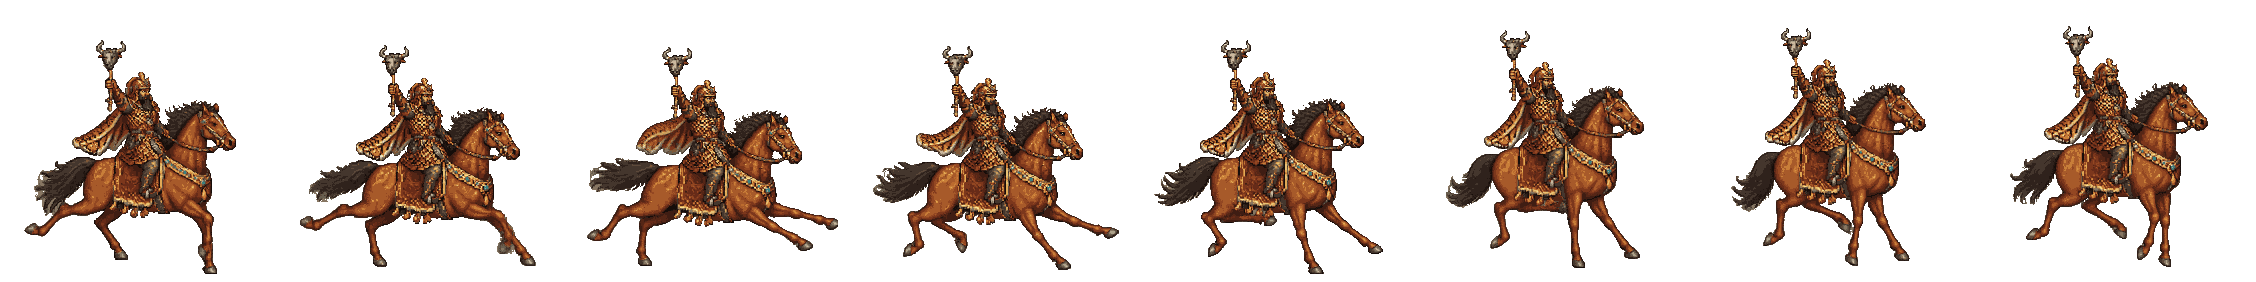
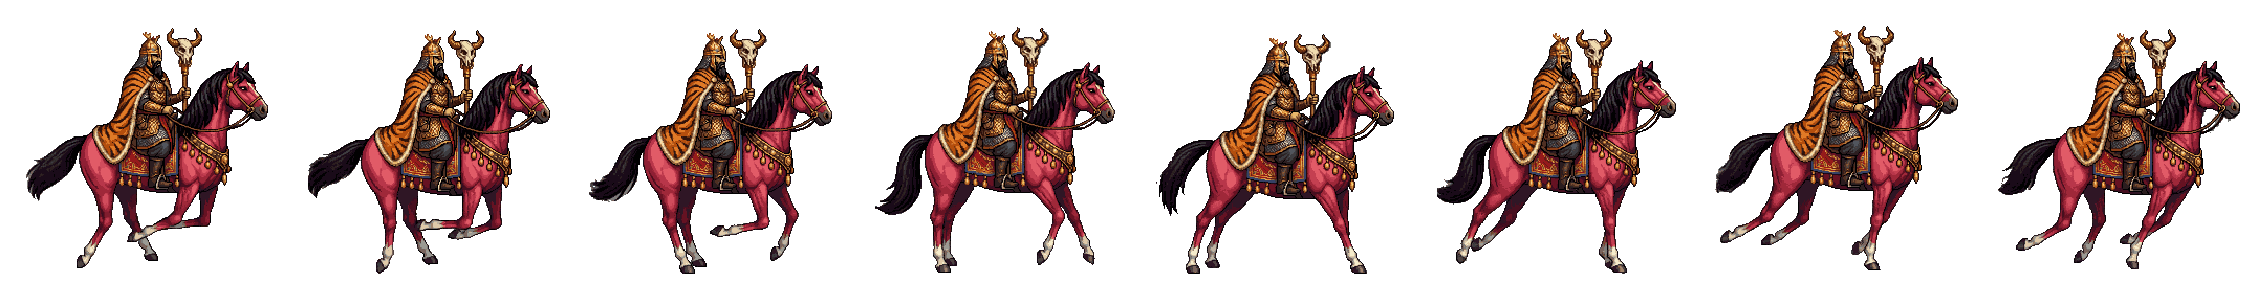
Shahnameh: speaker portraits, a true gallop, and a proper ending
- Portraits of every speaker (and the storyteller) beside the spoken
  subtitles; the written note steps aside while someone speaks.
- Rostam on Rakhsh redrawn in full detail with a real gallop (legs
  folding and striking in turn, no splayed rocking-horse frames), plus a
  new mounted strike and rear.
- Rostam sinks to his knees when he falls, and raises his mace to the
  sky when he takes the Simurgh's feather.
- The ending: Rostam reaches out and lets a drop of the White Div's
  heart-blood fall on the king's eyes; the chains burst, light pours
  down, Kay Kavus rises, and Rostam raises his mace.

diff --git a/fun/shahnameh/game.js b/fun/shahnameh/game.js
@@ -29,7 +29,7 @@ const ART = {
   'jackal-run': 'jackal-run.png', 'div-hop': 'div-hop.png',
   // Khan II
   'ride-gallop': 'k3/ride-gallop.png', 'ride-strike': 'k3/ride-strike.png', 'ride-rear': 'k3/ride-rear.png',
-  'queen-walk': 'k2/queen-walk.png', 'queen-sting': 'k2/queen-sting.png', 'queen-spit': 'k2/queen-spit.png', 'queen-die': 'k2/queen-die.png', 'scorpion-crawl': 'k2/scorpion-crawl.png', 'scorpion-sting': 'k2/scorpion-sting.png', 'vulture-fly': 'k2/vulture-fly.png', 'ram-walk': 'k2/ram-walk.png', 'rostam-drink': 'rostam-drink.png',
+  'queen-walk': 'k2/queen-walk.png', 'queen-sting': 'k2/queen-sting.png', 'queen-spit': 'k2/queen-spit.png', 'queen-die': 'k2/queen-die.png', 'scorpion-crawl': 'k2/scorpion-crawl.png', 'scorpion-sting': 'k2/scorpion-sting.png', 'vulture-fly': 'k2/vulture-fly.png', 'ram-walk': 'k2/ram-walk.png', 'rostam-drink': 'rostam-drink.png', 'rostam-fall': 'rostam-fall.png', 'rostam-victory': 'rostam-victory.png', 'rostam-anoint': 'rostam-anoint.png',
   // Khan III
   'dragon-move': 'k3/dragon-move.png', 'dragon-fire': 'k3/dragon-fire.png', 'dragon-die': 'k3/dragon-die.png', 'rakhsh-gallop': 'k3/rakhsh-gallop.png', 'rakhsh-rear': 'k3/rakhsh-rear.png', 'bat-fly': 'k3/bat-fly.png',
   // Khan IV
@@ -43,7 +43,7 @@ const ART = {
   'whitediv-walk': 'k7/whitediv-walk.png', 'whitediv-smash': 'k7/whitediv-smash.png', 'whitediv-throw': 'k7/whitediv-throw.png', 'whitediv-die': 'k7/whitediv-die.png', 'kavus-sight': 'k7/kavus-sight.png'
 };
 const FPS = { 'queen-walk': 10, 'queen-sting': 14, 'queen-spit': 12, 'queen-die': 7, 'rostam-dodge': 22, 'rostam-heavy': 14, 'simurgh-fly': 9, 'lion-die': 6, 'dragon-die': 6, 'hag-die': 6, 'rostam-idle': 5, 'rostam-run': 14, 'rostam-jump': 6, 'rostam-attack': 24, 'rostam-hurt': 10, 'lion-walk': 9, 'lion-run': 14, 'lion-roar': 6, 'jackal-run': 12, 'div-hop': 8, 'coin-spin': 8, 'fire-burn': 10,
-  'scorpion-crawl': 10, 'vulture-fly': 10, 'ram-walk': 8, 'rostam-drink': 6, 'ride-gallop': 12, 'ride-strike': 18, 'ride-rear': 11,
+  'scorpion-crawl': 10, 'vulture-fly': 10, 'ram-walk': 8, 'rostam-drink': 6, 'rostam-fall': 7, 'rostam-victory': 8, 'rostam-anoint': 6, 'ride-gallop': 12, 'ride-strike': 18, 'ride-rear': 11,
   'dragon-move': 7, 'dragon-fire': 9, 'rakhsh-gallop': 12, 'rakhsh-rear': 9, 'bat-fly': 14,
   'serpent': 8, 'hag-cast': 10, 'beauty-idle': 4,
   'spearman-walk': 10, 'spearman-thrust': 12, 'olad-walk': 10, 'olad-slash': 14, 'olad-kneel': 8,
@@ -53,7 +53,7 @@ const FPS = { 'queen-walk': 10, 'queen-sting': 14, 'queen-spit': 12, 'queen-die'
 const SIZE = { queen: 150, rider: 124, rostam: 112, lion: 148, jackal: 108, div: 108, scorpion: 86, vulture: 92, ram: 86, dragon: 136, rakhsh: 104, bat: 108, serpent: 92, hag: 108, beauty: 108, spearman: 140, olad: 112, divwarrior: 100, arzhang: 136, whitediv: 136, firediv: 104, ghul: 100 };
 const BODY = { queen: [0.62, 0.42], rider: [0.3, 0.5], rostam: [0.143, 0.393], lion: [0.5, 0.36], jackal: [0.3, 0.22], div: [0.22, 0.34], scorpion: [0.4, 0.22], vulture: [0.33, 0.2], ram: [0.4, 0.4],
   dragon: [0.46, 0.42], rakhsh: [0.5, 0.5], bat: [0.32, 0.24], serpent: [0.31, 0.31], hag: [0.27, 0.42], beauty: [0.2, 0.47], spearman: [0.115, 0.386], olad: [0.17, 0.49], divwarrior: [0.31, 0.64], arzhang: [0.3, 0.7], whitediv: [0.4, 0.58], firediv: [0.2, 0.6], ghul: [0.5, 0.36] };
-const V = 76;
+const V = 78;
 const ZOOM = 2;                                                   // canvas pixels per world pixel   // bump to bust caches when assets change
 
 // PixelLab VFX strips in ./assets/fx: frame size, frame count, fps, and the effect's origin as a fraction of the frame
@@ -1270,7 +1270,7 @@ class Play extends Phaser.Scene {
     makeTextures(this);
     for (const k of Object.keys(FPS)) {
       const t = this.textures.get(k), n = t.frameTotal - 1;
-      if (!this.anims.exists(k)) this.anims.create({ key: k, frames: this.anims.generateFrameNumbers(k, { start: 0, end: Math.max(0, n - 1) }), frameRate: FPS[k], repeat: /attack|hurt|roar|jump|thrust|slash|kneel|smash|throw|fire|rear|sight|strike|sting|die|leap|heavy|dodge/.test(k) ? 0 : -1 });
+      if (!this.anims.exists(k)) this.anims.create({ key: k, frames: this.anims.generateFrameNumbers(k, { start: 0, end: Math.max(0, n - 1) }), frameRate: FPS[k], repeat: /attack|hurt|roar|jump|thrust|slash|kneel|smash|throw|fire|rear|sight|strike|sting|die|leap|heavy|dodge|fall|victory|anoint/.test(k) ? 0 : -1 });
     }
     const lv = this.lv, map = lv.map(), C = map[0].length;
     $('lbl').innerHTML = lv.hud; $('waterPill').classList.add('hidden'); $('bossName').textContent = lv.bossName || lv.name;
@@ -1490,7 +1490,8 @@ class Play extends Phaser.Scene {
     this.hp--; this.renderHearts(); this.inv = thirst ? 30 : gentle() ? 130 : 90; sfx('hurt'); this.cam.shake(160, 0.008); this.cam.flash(120, 180, 40, 60);
     if (!thirst) this.player.setVelocity((this.player.x < fromX ? -1 : 1) * 160, -220);
     if (this.hp <= 0) {
-      this.done = true; playing = false; music(false); document.body.classList.remove('playing'); this.player.setTint(0x777777); hint(null);
+      this.done = true; playing = false; music(false); document.body.classList.remove('playing'); hint(null);
+      if (this.anims.exists('rostam-fall') && !this.mounted) { this.pose = 'rostam-fall'; this.player.anims.stop(); this.player.play('rostam-fall'); this.tweens.addCounter({ from: 255, to: 150, duration: 900, onUpdate: tw => { const c = Math.round(tw.getValue()); this.player.setTint((c << 16) | (c << 8) | c); } }); } else this.player.setTint(0x777777);
       const t = this.lv.tips; $('deadTip').textContent = t[Math.floor(Math.random() * t.length)];
       const cp = resumeAt?.n === cur;
       if (cp) Object.assign(resumeAt, { coins: this.coinCount, kills: this.kills, t: this.time.now - this.t0 });
@@ -1754,6 +1755,7 @@ class Play extends Phaser.Scene {
   takeFeather(f) {
     if (this.done || f.taken) return; f.taken = true; f.body.enable = false; this.tweens.killTweensOf(f);
     const p = this.player; this.frozen = true; p.setVelocityX(0); sfx('fire');
+    if (this.anims.exists('rostam-victory') && !this.mounted) { this.pose = 'rostam-victory'; p.anims.stop(); p.play('rostam-victory'); }
     f.spark?.stop(); this.tweens.killTweensOf([f.ring, f.col].filter(Boolean)); this.tweens.add({ targets: [f.glow, f.ring, f.col].filter(Boolean), alpha: 0, duration: 400 });
     this.tweens.addCounter({ from: 0, to: 1, duration: 900, ease: 'Sine.easeIn', onUpdate: tw => { const v = tw.getValue(); f.x = p.x + Math.cos(v * Math.PI * 4) * 26 * (1 - v); f.y = p.body.center.y - v * 30 + Math.sin(v * Math.PI * 4) * 8; f.angle = v * 540; f.setScale(0.62 * (1 - v * 0.6)); },
       onComplete: () => { this.cam.flash(500, 255, 240, 200); const r = this.add.image(p.x, p.body.center.y, 'rays').setTint(0xffe08a).setBlendMode(Phaser.BlendModes.ADD).setDepth(10).setScale(0.2);
@@ -2522,16 +2524,36 @@ class Play extends Phaser.Scene {
     hint('<b>Walk to Kay Kavus</b>, chained at the back of the cave.');
   }
   freeKing() {
-    // the blood of the White Div's heart opens the king's eyes
-    this.ended = true; this.frozen = true; const p = this.player, k = this.kavus; p.setVelocityX(0); this.face = 1;
-    this.pose = 'rostam-drink'; p.play('rostam-drink');
-    this.time.delayedCall(900, () => {
-      this.fx('beam', k.x, k.y + 1, { depth: 6 }); this.cam.flash(700, 255, 250, 220); sfx('win');
+    // Rostam kneels before the blind king and touches the blood of the White Div's heart to his eyes: a drop falls, the
+    // king's eyes kindle, his chains burst apart, light pours down on him and he rises with his arms open. Rostam raises
+    // his mace to the sky, and the tale is told to its end
+    this.ended = true; this.frozen = true; const p = this.player, k = this.kavus; p.setVelocityX(0); this.face = k.x >= p.x ? 1 : -1; p.setFlipX(this.face < 0);
+    const anoint = this.anims.exists('rostam-anoint'); hint(null);
+    this.pose = anoint ? 'rostam-anoint' : 'rostam-drink'; p.anims.stop(); p.play(this.pose); sfx('swing');
+    const eye = { x: k.x - 3 * Math.sign(k.x - p.x || 1), y: k.y - k.displayHeight * 0.8 }, hand = () => ({ x: p.x + this.face * 24, y: p.y + 4 });
+    this.time.delayedCall(700, () => {
+      // a single dark-red drop falls from the vial
+      const h = hand(), drop = this.add.circle(h.x, h.y, 2, 0xb0101a).setDepth(9).setStrokeStyle(1, 0x400008);
+      this.tweens.add({ targets: drop, x: eye.x, y: eye.y, duration: 520, ease: 'Quad.easeIn', onComplete: () => {
+        drop.destroy(); sfx('coin');
+        const g = this.add.image(eye.x, eye.y, 'glow').setTint(0xffe0a0).setBlendMode(Phaser.BlendModes.ADD).setDepth(9).setScale(0.1);
+        this.tweens.add({ targets: g, scale: 1.1, alpha: { from: 1, to: 0 }, duration: 900, ease: 'Cubic.easeOut', onComplete: () => g.destroy() });
+      } });
+    });
+    this.time.delayedCall(1700, () => {
+      // his chains burst, light pours down, and he rises
+      this.cam.flash(700, 255, 250, 220); this.cam.shake(300, 0.008); sfx('win');
+      const bits = this.add.particles(k.x, k.y - 30, 'flake', { speed: { min: 80, max: 180 }, angle: { min: 200, max: 340 }, gravity: 600, lifespan: 900, quantity: 18, emitting: false, scale: { min: 1, max: 2 }, tint: [0x8a8f9a, 0xc8ccd6, 0x5a5f6a] }).setDepth(9);
+      bits.explode(18); this.time.delayedCall(1200, () => bits.destroy());
+      this.fx('beam', k.x, k.y + 1, { depth: 6 }); this.fx('beacon', k.x, k.y + 1, { depth: 2 }).setTint(0xfff0c0).setAlpha(0.8);
       k.play('kavus-sight'); this.light(k, 2.2);
       banner('کاووس شاه', 'The king sees again');
     });
-    this.time.delayedCall(2600, () => { toast('"Rostam!" cries Kay Kavus. "My eyes are opened, and Iran is saved."'); say('kavus1'); });
-    this.time.delayedCall(4800, () => cinema('ending', () => this.win({ destroy() {} })));   // the ending in pictures, the credits, then the win
+    this.time.delayedCall(2900, () => {
+      if (this.anims.exists('rostam-victory')) { this.pose = 'rostam-victory'; p.anims.stop(); p.play('rostam-victory'); }
+      toast('"Rostam!" cries Kay Kavus. "My eyes are opened, and Iran is saved."'); say('kavus1');
+    });
+    this.time.delayedCall(7200, () => cinema('ending', () => this.win({ destroy() {} })));   // the ending in pictures, the credits, then the win
   }
   /* ---- Khan II: thirst, wells, the ram and the spring ---- */
   renderWater() { const w = Math.round(this.water); $('water').style.width = w + '%'; $('waterPill').classList.toggle('low', w < 25); }
@@ -3035,8 +3057,10 @@ const said = new Set();
 function say(k, { once = false, sub = true } = {}) {
   if (once && said.has(k)) return; said.add(k);
   const el = $('sub'), L = LINES[k], text = L ? `<b>${L[0]}:</b> \u201c${L[1]}\u201d` : KHAN_LINES[k];
+  // the speaker's face beside the words: the storyteller for the narrator's lines
+  const who = { queen: 'queen', witch1: 'beauty', witch2: 'hag', olad: 'olad', arzhang: 'arzhang', white: 'white', kavus: 'kavus' }, face = who[k] || who[k.replace(/\d+$/, '')] || 'narrator';
   const a = narrate(k, () => el.classList.remove('on'));
-  if (a && sub && text) { el.innerHTML = text; el.classList.add('on'); } else el.classList.remove('on');
+  if (a && sub && text) { el.innerHTML = `<img src="assets/ui/port/${face}.png?v=${V}" alt=""><span>${text}</span>`; el.classList.add('on'); $('toast').classList.remove('on'); } else el.classList.remove('on');   // the spoken words replace the written note
 }
 // as a labour begins (the first time this visit) the narrator sets the scene
 function sayIntro(n) { say('khan' + n, { once: true }); }
@@ -3202,7 +3226,7 @@ function hint(html) {
   h.classList.remove('hidden', 'new', 'dim'); void h.offsetWidth; h.classList.add('new');
   clearTimeout(hint.t); hint.t = setTimeout(() => h.classList.add('dim'), 7000);
 }
-function toast(msg) { const t = $('toast'); t.textContent = msg; t.classList.add('on'); clearTimeout(toastT); toastT = setTimeout(() => t.classList.remove('on'), 3200); }
+function toast(msg) { if ($('sub').classList.contains('on')) return; const t = $('toast'); t.textContent = msg; t.classList.add('on'); clearTimeout(toastT); toastT = setTimeout(() => t.classList.remove('on'), 3200); }
 function banner(fa, name, ep = '') {
   const lv = LEVELS[cur], b = $('banner');
   b.querySelector('.fa').textContent = fa || lv.bossFa || lv.fa; b.querySelector('h2').textContent = name || lv.bossName || lv.name;

diff --git a/fun/shahnameh/index.html b/fun/shahnameh/index.html
@@ -96,7 +96,8 @@ h2{font-size:clamp(21px,4.6vw,27px);margin:2px 0 8px}
   background:#efe0bc;border:2px solid #7a4e14;outline:1px solid #c8902a;outline-offset:-5px;box-shadow:0 6px 16px rgba(0,0,0,.55);padding:8px 18px;
   font:500 18px/1.4 var(--book);color:var(--inkb);text-align:center}
 #hint b{color:#8a1e10;font-weight:700}
-#sub{position:fixed;left:50%;bottom:calc(max(14px,env(safe-area-inset-bottom)) + 18px);transform:translate(-50%,8px);z-index:6;width:max-content;max-width:min(92vw,720px);pointer-events:none;padding:8px 18px;border-radius:10px;background:rgba(6,5,10,.72);color:#f6ead0;font:italic 500 19px/1.35 'EB Garamond',serif;text-align:center;text-shadow:0 1px 2px #000;opacity:0;transition:opacity .5s,transform .5s}#sub.on{opacity:1;transform:translate(-50%,0)}#sub b{font:700 13px Cinzel,serif;font-style:normal;color:#e8c25a;letter-spacing:.06em;margin-right:4px}
+#sub{position:fixed;left:50%;bottom:calc(max(14px,env(safe-area-inset-bottom)) + 18px);transform:translate(-50%,8px);z-index:6;width:max-content;max-width:min(92vw,720px);pointer-events:none;padding:8px 18px;border-radius:10px;background:rgba(6,5,10,.72);color:#f6ead0;font:italic 500 19px/1.35 'EB Garamond',serif;text-align:center;text-shadow:0 1px 2px #000;opacity:0;transition:opacity .5s,transform .5s}#sub.on{opacity:1;transform:translate(-50%,0)}#sub{display:flex;align-items:center;gap:12px;text-align:left}#sub img{width:56px;height:56px;flex:none;image-rendering:pixelated;border-radius:50%;border:2px solid #e8c25a;background:radial-gradient(circle at 50% 40%,#3a2a1a,#0a0806);box-shadow:0 0 0 2px rgba(0,0,0,.6),0 0 14px rgba(232,194,90,.35)}@media (max-width:620px){#sub img{width:42px;height:42px}}
+#sub b{font:700 13px Cinzel,serif;font-style:normal;color:#e8c25a;letter-spacing:.06em;margin-right:4px}
 @media (pointer:coarse){#sub{bottom:calc(max(14px,env(safe-area-inset-bottom)) + 150px)}}@media (max-width:620px){#sub{font-size:15px;padding:6px 12px}}
 #boss:not(.hidden)~#hint{top:calc(max(10px,env(safe-area-inset-top)) + 84px)}
 #hint.new{animation:hintIn .6s ease}@keyframes hintIn{0%{opacity:0;transform:translate(-50%,-6px)}100%{opacity:1;transform:translateX(-50%)}}
@@ -679,6 +680,6 @@ body.calm #banner.on{animation-name:banCalm}@keyframes banCalm{0%{opacity:0}15%,
 </template>
 
 <script src="https://cdn.jsdelivr.net/npm/phaser@3.80.1/dist/phaser.min.js"></script>
-<script src="game.js?v=76"></script>
+<script src="game.js?v=78"></script>
 </body>
 </html>
